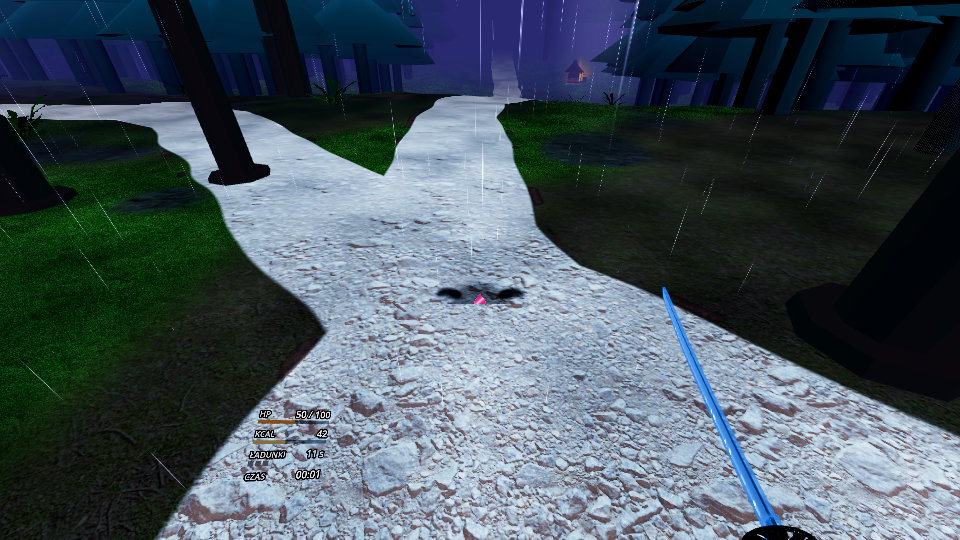
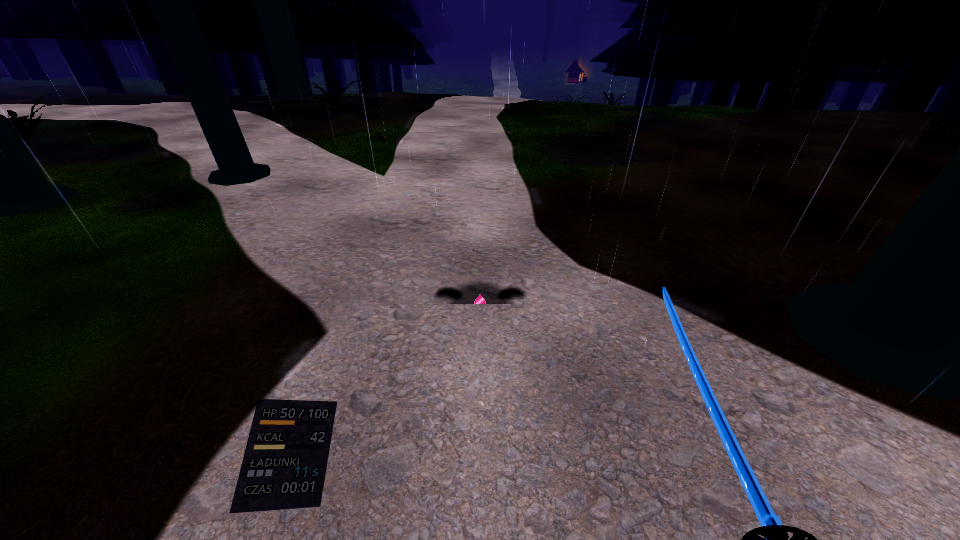
feat(wrist): F1 readout on a dark plate, larger type, pixel contrast test
Adds a single unshaded dark backing plate (alpha 0.72) under the four
rows, enlarges the labels 22->31 px and values 28->39 px, cream labels,
and moves the charges' imbue seconds onto the pips' line so they no
longer collide with the label. The wrist test now reads the rendered
frame (windowed) and requires >= 4.5:1 for the HP text against the
ground: 11.7:1 now, 4.1:1 on 3bfc84f. Screenshots and README in docs/f1/.

diff --git a/docs/f1/README.md b/docs/f1/README.md
@@ -2,29 +2,42 @@
 
 Jakub (02.11): "dalej na rece sa jakies japonskie znaczki. prosilem o hp, kalorie, ladunki i ew czas rundy".
 
-## Co zrobione
-- Nadgarstek pokazuje teraz cztery wiersze, po łacinie, od góry:
-  - **HP**: pasek (teal → bursztyn → czerwony, pulsuje poniżej 25%) i liczba `aktualne / max`;
-  - **KCAL**: pasek (pełny przy 100 kcal, skala decyzja autora) i liczba;
-  - **ŁADUNKI**: trzy kropki w kolorze żywiołu (najstarszy pierwszy), a przy zanurzonym ostrzu sekundy w kolorze żywiołu;
-  - **CZAS**: czas rundy `mm:ss`. Awans na chwilę zamienia ten wiersz w `LV n` / `+1 PT`.
-- API: `DiegeticHud.set_row(key, label, value, ratio, colour, pips, value_colour)`. Wiersz tworzy się przy pierwszym użyciu i ustawia się pod poprzednimi, więc F6 (STAMINA) i F7 (DUSZE) dopinają tylko wartość.
-- Usunięte z nadgarstka: pierścień HP i kulki ładunków w shaderze (`src/shaders/wrist_ring.gdshader` skasowany, nie był używany nigdzie indziej), znaki żywiołów i glify umiejętności A/B, linia statystyk (ranga, zabójstwa, punkty, XP, fala), buffy z kapliczki (tekst kanji z `run_buffs.gd`). Nie są w wymaganiu F1; patrz "Słabe".
-- Bez zmian: gest "spojrzenie na zegarek", histereza, fade, odległość/kąt, SANDBOX, zrzut kanji nie występuje w żadnym napisie HUD (sprawdza test).
+## Co jest na nadgarstku
+Cztery wiersze po łacinie, od góry, na ciemnej płytce (granat, alfa 0.72, bez cieniowania, bez wpływu na mgłę świata):
+- **HP**: pasek (teal → bursztyn → czerwony, pulsuje poniżej 25%) i `aktualne / max`;
+- **KCAL**: pasek (pełny przy 100 kcal, skala to decyzja autora, nie ma jej w GDD) i liczba;
+- **ŁADUNKI**: trzy kropki w kolorze żywiołu (najstarszy pierwszy); przy zanurzonym ostrzu sekundy w kolorze żywiołu, po prawej na linii kropek;
+- **CZAS**: czas rundy `mm:ss`. Awans na chwilę zamienia ten wiersz w `LV n` / `+1 PT`.
+
+Rozmiar czcionek: etykiety 31 px (było 22), wartości 39 px (było 28), czyli +40%. Tekst kremowy (etykiety) i biały (wartości).
+
+API: `DiegeticHud.set_row(key, label, value, ratio, colour, pips, value_colour)`. Wiersz tworzy się przy pierwszym użyciu, ląduje pod poprzednimi, a płytka dopasowuje się do liczby wierszy. F6 (STAMINA) i F7 (DUSZE) dopinają tylko wartość.
+
+Usunięte z nadgarstka (nie są w wymaganiach F1): pierścień HP i shader `wrist_ring.gdshader` (nigdzie indziej nieużywany), znaki żywiołów, glify umiejętności A/B, linia statystyk (ranga, zabójstwa, punkty, XP, fala), buffy z kapliczki (tekst kanji z `run_buffs.gd`). Trzeba je wrócić po latinizacji.
+
+## Kadr i ręka (dlaczego na zrzutach nie widać dłoni)
+Zrzuty robi `tests/point15_wrist_screenshot.gd` w `run.tscn` w trybie desktopowym. Ta scena **nie ma modelu dłoni**: nadgarstek w desktopie nie istnieje, a odczyt jest przypięty do kamery (`DESKTOP_OFFSET`, trzymany na H). Dlatego blok "wisi" przed kamerą, a nie na ręce. Ręka z modelem jest w `xr_player.tscn` (test clearance w `wrist_hud_test` mierzy jej siatkę i sprawdza, że płytka jej nie przecina). Zrzut z dłonią wymagałby sceny XR bez HMD, co w tym zadaniu nie zostało zrobione. Kamera jest ta sama PRZED/PO.
 
 ## Testy
-- `tests/wrist_hud_test.gd`: zerowe przecięcia dłoni i katany (także kontrola: test widzi dłoń, gdy odczyt zanurzy się w nią); wiersze w kolejności HP/KCAL/ŁADUNKI/CZAS; wartości i paski aktualizują się po zmianie HP, KCAL, ładunków i czasu; żaden Label3D w poddrzewie nadgarstka nie ma znaków U+3040–U+30FF ani U+4E00–U+9FFF (w spoczynku, z imbue, w fladze awansu, z buffem w kanji); kontrast tekstu do obrysu ≥ 4.5:1; wiersze mieszczą się w kolumnie i nie nachodzą; `set_row` dokłada wiersz pod CZASEM.
-- Dostosowane (ta sama treść kontrolna, nowa treść): `element_abilities_test`, `run_loop_test`, `point17_diegetic_critical_test`, `quest_perf_test` (mesh budget), `xr_play_test` (widoczność wiersza czasu).
+- `tests/wrist_hud_test.gd` (headless, w suite):
+  - zero przecięć dłoni i katany, z kontrolą (test widzi dłoń, gdy odczyt zanurzy się w nią); obszar sprawdzania obejmuje płytkę;
+  - wiersze w kolejności HP/KCAL/ŁADUNKI/CZAS; wartości i paski aktualizują się po zmianie HP, KCAL, ładunków i czasu;
+  - żaden Label3D w poddrzewie nadgarstka nie ma znaków U+3040–U+30FF ani U+4E00–U+9FFF (w spoczynku, z imbue, w fladze awansu, z buffem w kanji);
+  - kontrast tekstu do obrysu ≥ 4.5:1; wiersze mieszczą się w kolumnie i nie nachodzą; `set_row` dokłada wiersz pod CZASEM.
+- `tests/wrist_hud_test.gd`, **test pikseli** (tylko z oknem, pod xvfb; headless drukuje SKIP): na scenie `run.tscn` z podniesionym nadgarstkiem odczytuje klatkę i mierzy kontrast tekstu HP (najjaśniejsze 10% pikseli prostokąta etykiety i wartości) względem tła (mediana pierścienia 6 px wokół). Wymóg: ≥ 4.5:1.
+  - **Wynik na nowym kodzie: 11.7:1.**
+  - **Wynik na 3bfc84f (poprzedni commit): 4.1:1, test FAIL** (sprawdzone, worktree w /tmp, usunięty).
+- `quest_perf_test`: wizualne meshe nadgarstka ≤ 9 (płytka 1, paski HP i KCAL 4, kropki 3).
+- Dostosowane wcześniej (ta sama treść kontrolna, nowa treść): `element_abilities_test`, `run_loop_test`, `point17_diegetic_critical_test`, `xr_play_test` (widoczność wiersza czasu).
 
 ## Zrzuty (gra, `run.tscn`, ta sama kamera i stan HP/imbue)
-- `pre_*` – przed zmianą (pierścień z kanji), `post_*` – po zmianie.
-- `*_wrist_hp100_gesture.png`: HP 100%, kcal 42, imbue Storm 12 s. `*_wrist_hp15_gesture.png`: HP 15%, czerwony pasek. `*_wrist_lowered_hidden.png`: ręka opuszczona, nic nie rysowane.
+- `pre_*`: przed zmianą (commit bebe49c, pierścień z kanji). `post_*`: po zmianie (ta runda).
+- `*_wrist_hp100_gesture.png`: HP 100%, kcal 42, imbue Storm 12 s. `*_wrist_hp50_gesture.png`: HP 50%, bursztynowy pasek. `*_wrist_hp15_gesture.png`: HP 15%, czerwony pasek. `*_wrist_lowered_hidden.png`: ręka opuszczona, nic nie rysowane.
 
-## Ocena surowa
-- **Dobre:** żadnego kanji na nadgarstku, czytelne etykiety łacińskie, paski HP i kcal widać na pierwszy rzut oka, kolor HP działa (teal/bursztyn/czerwony), kropki ładunków w kolorze żywiołu.
+## Ocena surowa (runda 2)
+- **Dobre:** tekst czytelny na pierwszy rzut oka, kontrast 11.7:1 w pikselach (poprzednio 4.1:1); paski HP i KCAL mają sens; kropki i sekundy ładunków nie zlewają się z etykietą (po przesunięciu sekund na linię kropek).
 - **Słabe:**
-  - Tekst jest mały w oknie 960×540: w goglach trzeba potwierdzić czytelność z ~40 cm na Quest 3. Nie mam gogli; to nie jest zweryfikowane.
-  - Szary tekst na jasnym kamieniu ma słaby kontrast brzegów. Obrys podniosłem z 8 do 14; kontrast etykiet jest policzony tylko względem obrysu, nie tła.
-  - Skala paska KCAL (100 kcal) to decyzja autora, nie zapisana w GDD.
-  - Wycięte: statystyki biegu (ranga, zabójstwa, XP, fala), buffy z kapliczki, gotowość umiejętności A/B. Gracz ich już na nadgarstku nie zobaczy; trzeba je wrócić po latinizacji (F6/F7 albo osobne zadanie).
-  - Pierścień był ładniejszy wizualnie; rzędy są czytelniejsze, ale mniej "premium". Do oceny Jakuba.
+  - Płytka to prosty prostokąt z ostrymi rogami. Wygląda jak karta, nie jak element zegarka. Zaokrąglone rogi wymagałyby shadera; zostawiam jako decyzję Jakuba.
+  - Brak ręki w zrzucie: to ograniczenie sceny desktopowej, nie pokazuje, jak blok leży na nadgarstku w goglach. Wymaga weryfikacji na Quest 3.
+  - Czytelność z 40 cm nie jest zmierzona w goglach. Pomiar pikseli dotyczy 960×540 na desktopie.
+  - Test "H released: the readout hides" przechodzi headless, ale w oknie pada też na 3bfc84f (przyczyna: `_frames` czeka na physics_frame, a fade liczy się w process). To problem istniejący, nie z tej zmiany.
